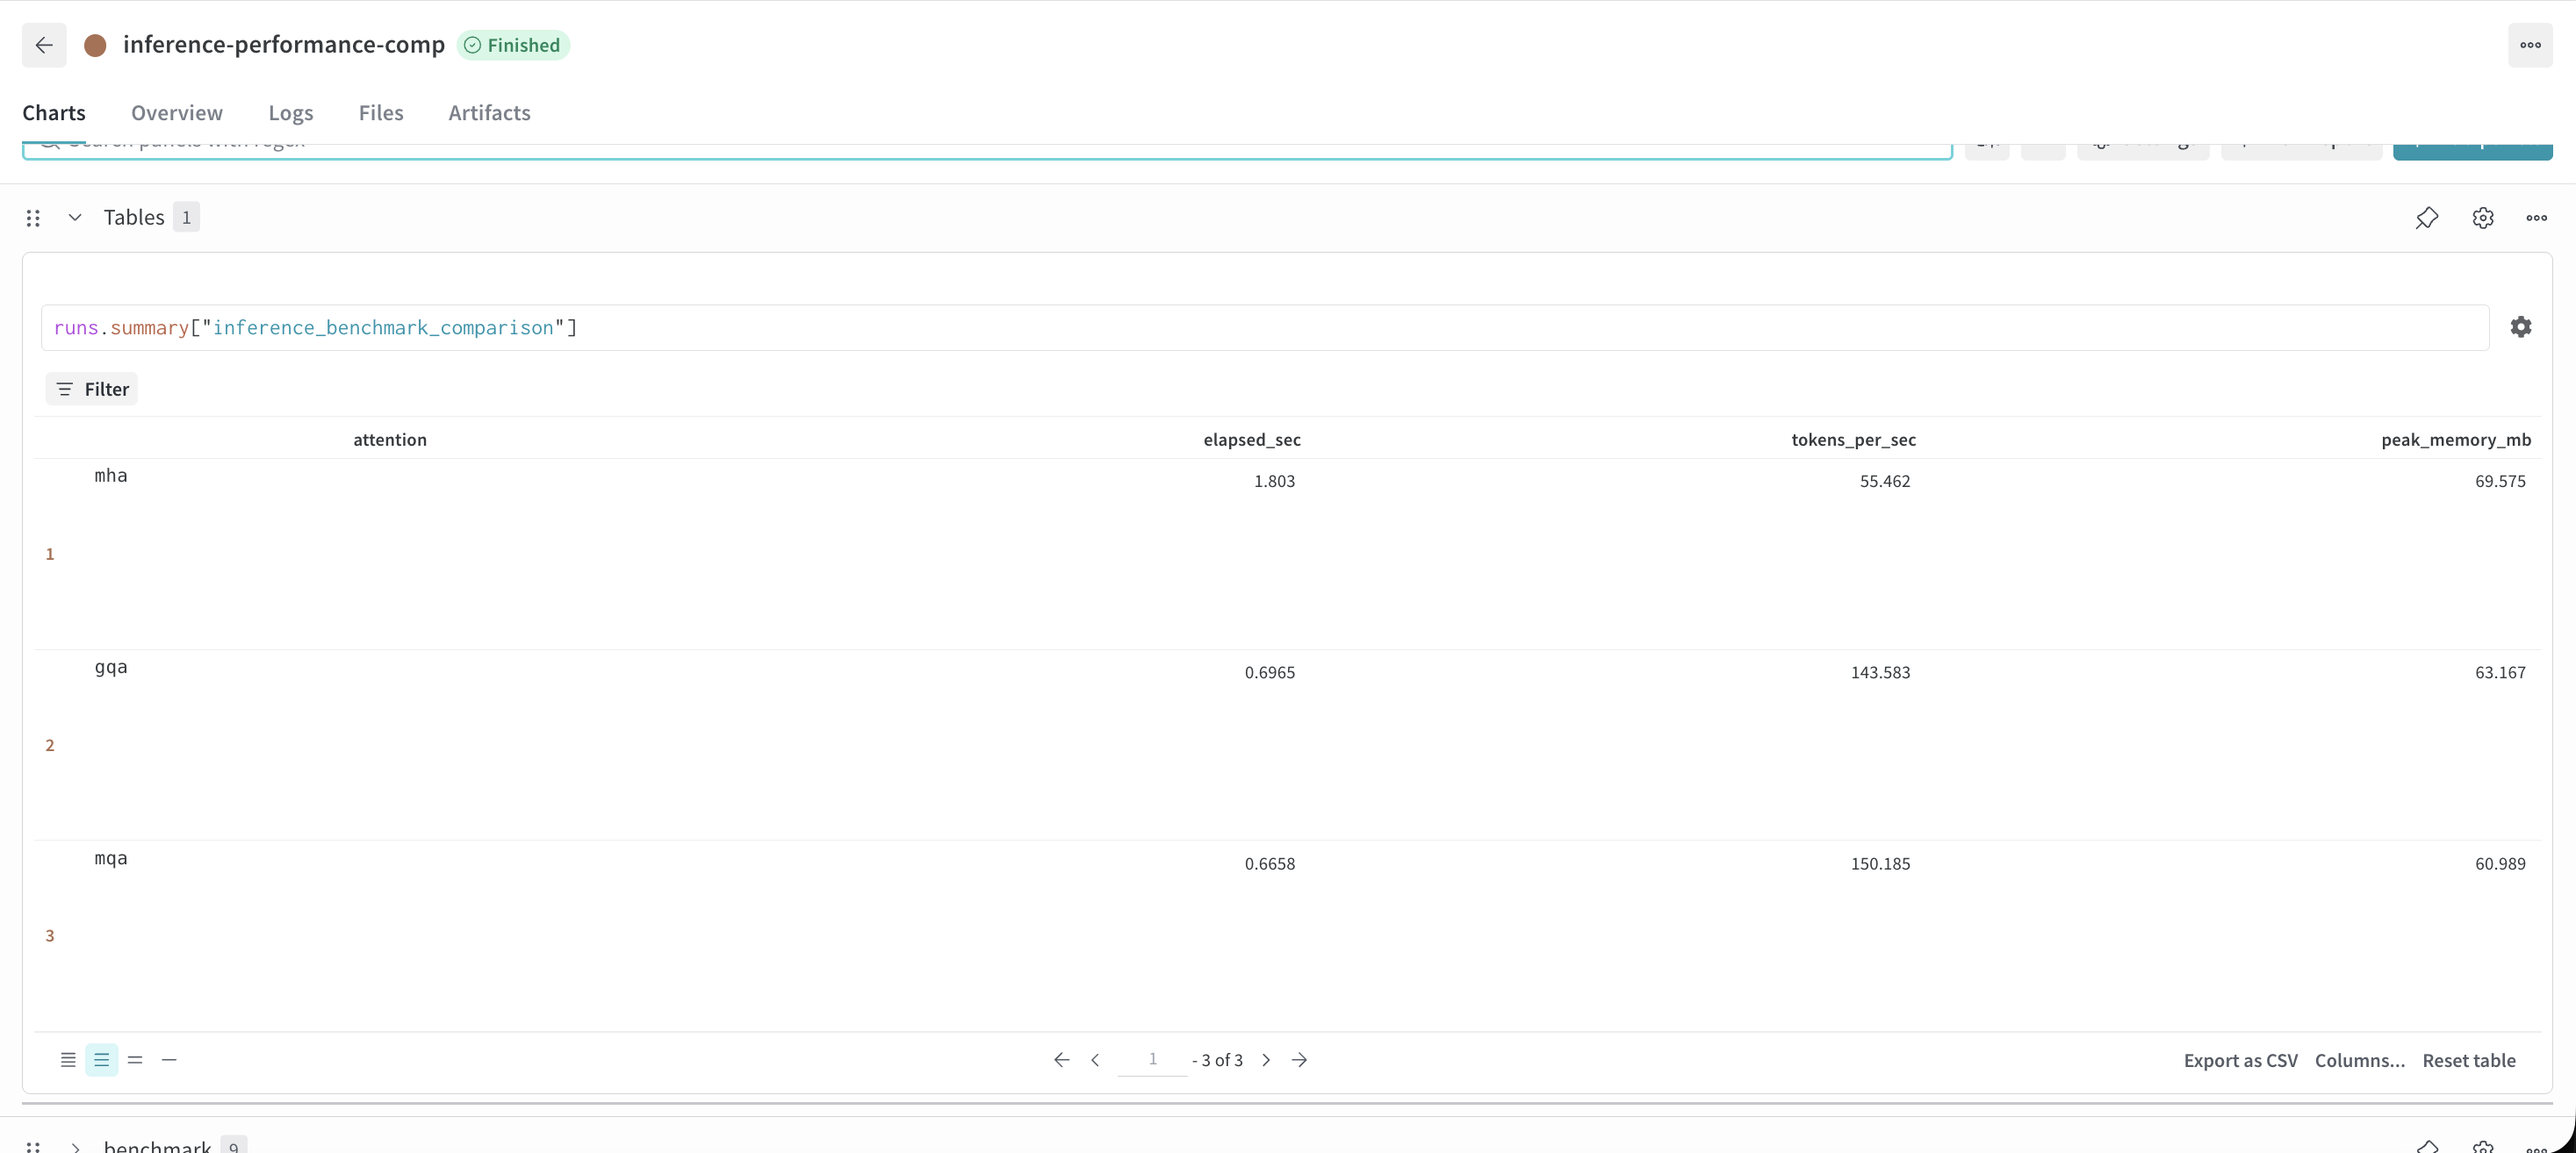
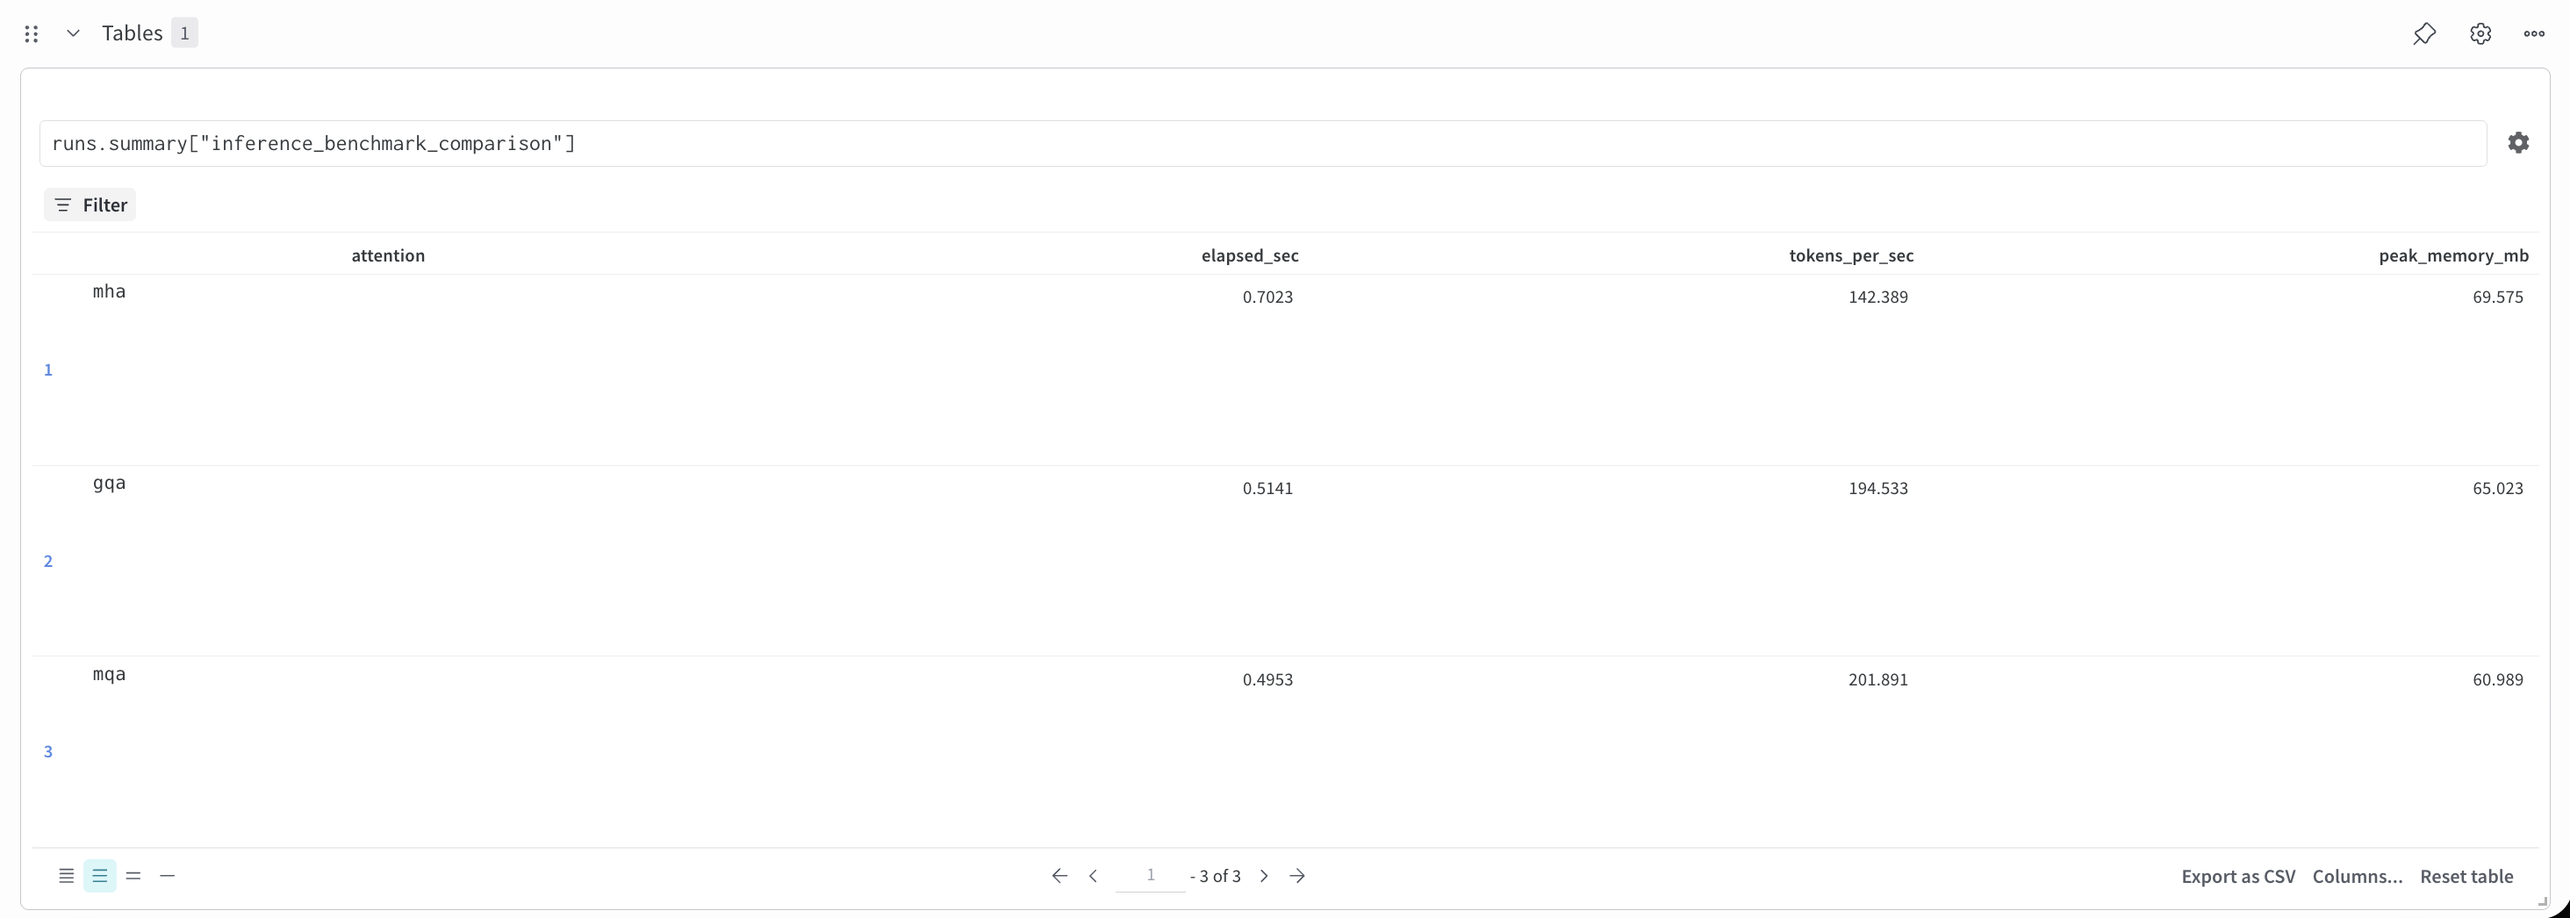
code cleanup / simplification - use bfloat16

diff --git a/modules/training/train_transformer.py b/modules/training/train_transformer.py
@@ -7,15 +7,12 @@ import wandb
 
 class TransformerTrainer:
     def __init__(self, vocab_size, embed_dim, num_heads, num_layers, attention_module, mlp_ratio=4, device='cpu'):
-        print(f"Initializing TransformerTrainer with vocab_size={vocab_size}, embed_dim={embed_dim}, num_heads={num_heads}, num_layers={num_layers}, attention_module={attention_module.__name__}, mlp_ratio={mlp_ratio}, device={device}")
+        self.device = device
         self.model = GPTClone(vocab_size, embed_dim, num_heads, num_layers, attention_module, mlp_ratio).to(device)
         self.optimizer = self.set_optimizer()
         self.criterion = nn.CrossEntropyLoss()
-        self.device = device
         self.best_val_loss = float('inf')
         self.lr_scheduler = None
-        self._pending_scheduler_state = None
-        self.scaler = torch.amp.GradScaler('cuda')
 
     def set_optimizer(self):
         decay_parameters = []
@@ -39,22 +36,20 @@ class TransformerTrainer:
         self.model.train()
         total_loss = 0
         for i, (input_ids, targets) in enumerate(dataloader):
-            input_ids = input_ids.to(self.device)
-            targets = targets.to(self.device)
+            input_ids = input_ids.to(self.device, non_blocking=True)
+            targets = targets.to(self.device, non_blocking=True)
 
             self.optimizer.zero_grad()
-            with torch.amp.autocast('cuda', dtype=torch.float16):
+            with torch.amp.autocast(device_type=self.device, dtype=torch.bfloat16):
                 outputs, _ = self.model(input_ids)
 
                 loss = self.criterion(outputs.view(-1, outputs.size(-1)), targets.view(-1))
 
-            self.scaler.scale(loss).backward()
+            loss.backward()
             
-            self.scaler.unscale_(self.optimizer)
             torch.nn.utils.clip_grad_norm_(self.model.parameters(), max_norm=config.GRAD_CLIP_MAX_NORM)  # Gradient clipping
 
-            self.scaler.step(self.optimizer)
-            self.scaler.update()
+            self.optimizer.step()
             self.lr_scheduler.step()
             total_loss += loss.item()
             
@@ -83,17 +78,15 @@ class TransformerTrainer:
             milestones=[warmup_steps]
         )
 
-    def train(self, train_dataloader, epochs, save_every, val_dataloader=None, start_epoch=0, checkpoint_dir=config.MHA_CHECKPOINT_DIR):
+    def train(self, train_dataloader, epochs, save_every, val_dataloader=None, checkpoint_dir=None):
+        if checkpoint_dir is None:
+            raise ValueError("checkpoint_dir must be specified")
         os.makedirs(checkpoint_dir, exist_ok=True)
         total_steps = len(train_dataloader) * epochs
 
         self.setup_lr_scheduler(total_steps)
 
-        if self._pending_scheduler_state is not None:
-            self.lr_scheduler.load_state_dict(self._pending_scheduler_state)
-            self._pending_scheduler_state = None
-
-        for epoch in range(start_epoch, epochs):
+        for epoch in range(epochs):
             total_loss = self.train_step(train_dataloader)
 
             if epoch % 10 == 0 or epoch == epochs - 1:
@@ -116,56 +109,39 @@ class TransformerTrainer:
             wandb.log(log_dict)
 
             if (epoch + 1) % save_every == 0:
-                self.save_checkpoint(f"{checkpoint_dir}/epoch_{epoch+1}.pt", epoch, total_loss, best_val_loss=self.best_val_loss)
+                self.save_checkpoint(f"{checkpoint_dir}/epoch_{epoch+1}.pt", epoch, total_loss)
 
             if val_loss is not None and val_loss < self.best_val_loss:
                 self.best_val_loss = val_loss
-                self.save_checkpoint(f"{checkpoint_dir}/best.pt", epoch, total_loss, best_val_loss=val_loss)
+                self.save_checkpoint(f"{checkpoint_dir}/best.pt", epoch, total_loss)
 
     def validate(self, dataloader):
         self.model.eval()
         total_loss = 0
         with torch.no_grad():
             for input_ids, targets in dataloader:
-                input_ids = input_ids.to(self.device)
-                targets = targets.to(self.device)
-                with torch.amp.autocast('cuda', dtype=torch.float16):
+                input_ids = input_ids.to(self.device, non_blocking=True)
+                targets = targets.to(self.device, non_blocking=True)
+                with torch.amp.autocast(device_type=self.device, dtype=torch.bfloat16):
                     outputs, _ = self.model(input_ids)
                     loss = self.criterion(outputs.view(-1, outputs.size(-1)), targets.view(-1)) # crossentropy takes batch_size x seq_len as input
                 total_loss += loss.item()
 
         return total_loss / len(dataloader)
     
-    def save_checkpoint(self, path, epoch, loss, best_val_loss=None):
+    def save_checkpoint(self, path, epoch, loss):
         torch.save({
             'epoch': epoch,
             'model_state_dict': self.model.state_dict(),
-            'optimizer_state_dict': self.optimizer.state_dict(),
-            'lr_scheduler_state_dict': self.lr_scheduler.state_dict() if self.lr_scheduler else None,
             'train_loss': loss,
-            'best_val_loss': best_val_loss,
-            'wandb_run_id': wandb.run.id if wandb.run is not None else None,
-            'scaler_state_dict': self.scaler.state_dict(),
         }, path)
         print(f"Checkpoint saved to {path}")
 
     def load_checkpoint(self, path):
         checkpoint = torch.load(path, map_location=self.device)
         self.model.load_state_dict(checkpoint['model_state_dict'])
-        self.optimizer.load_state_dict(checkpoint['optimizer_state_dict'])
-        self.scaler.load_state_dict(checkpoint['scaler_state_dict'])
         print(f"Checkpoint loaded from {path}")
         return (
             checkpoint['epoch'],
             checkpoint['train_loss'],
-            checkpoint.get('best_val_loss', None),
-            checkpoint.get('lr_scheduler_state_dict', None),
-            checkpoint.get('wandb_run_id', None),
         )
-
-    def resume_from_checkpoint(self, path):
-        epoch, train_loss, best_val_loss, lr_scheduler_state_dict, wandb_run_id = self.load_checkpoint(path)
-        if best_val_loss is not None:
-            self.best_val_loss = best_val_loss
-        self._pending_scheduler_state = lr_scheduler_state_dict
-        return epoch, train_loss, wandb_run_id

diff --git a/modules/training/training.py b/modules/training/training.py
@@ -26,19 +26,17 @@ def parse_args():
         type=str,
         choices=ATTENTION_MODULES.keys(),
         default="mha",
-        help="Which attention module to use: mha or mqa",
-    )
-    parser.add_argument(
-        "--resume",
-        type=str,
-        default=None,
-        help="Path to a checkpoint file to resume training from",
+        help="Which attention module to use: mha, gqa or mqa",
     )
     return parser.parse_args()
 
 
 if __name__ == "__main__":
     args = parse_args()
+    torch.manual_seed(config.SEED)
+
+    if torch.cuda.is_available():
+        torch.cuda.manual_seed_all(config.SEED)
 
     prepare_data()
 
@@ -46,34 +44,14 @@ if __name__ == "__main__":
     mlp_ratio = config.MLP_RATIO
     device = "cuda" if torch.cuda.is_available() else "cpu"
 
-    trainer = TransformerTrainer(
-        config.VOCAB_SIZE,
-        config.EMBED_DIM,
-        config.NUM_HEADS,
-        config.NUM_LAYERS,
-        attention_module,
-        mlp_ratio,
-        device,
-    )
-    print(f"TransformerTrainer initialized with {args.attention} attention on {device}.")
-
     train_dataset = TokenDataset(config.TRAIN_DATA_PATH, config.SEQ_LEN)
     train_dataloader = DataLoader(train_dataset, batch_size=config.BATCH_SIZE, shuffle=True, num_workers=4, pin_memory=True, persistent_workers=True)
 
     val_dataset = TokenDataset(config.VAL_DATA_PATH, config.SEQ_LEN)
     val_dataloader = DataLoader(val_dataset, batch_size=config.BATCH_SIZE, shuffle=False, num_workers=2, pin_memory=True, persistent_workers=True)
 
-    start_epoch = 0
-    wandb_run_id = None
-    if args.resume is not None:
-        start_epoch, last_train_loss, wandb_run_id = trainer.resume_from_checkpoint(args.resume)
-        start_epoch += 1
-        print(f"Resumed from {args.resume}, continuing at epoch {start_epoch+1}, last train loss was {last_train_loss:.4f}")
-
     wandb.init(
         project="gpt-clone-experiments",
-        id=wandb_run_id,
-        resume="must" if wandb_run_id is not None else None,
         config={
             "attention": args.attention,
             "vocab_size": config.VOCAB_SIZE,
@@ -89,10 +67,21 @@ if __name__ == "__main__":
         },
     )
 
+    trainer = TransformerTrainer(
+        config.VOCAB_SIZE,
+        config.EMBED_DIM,
+        config.NUM_HEADS,
+        config.NUM_LAYERS,
+        attention_module,
+        mlp_ratio,
+        device,
+    )
+    print(f"TransformerTrainer initialized with {args.attention} attention on {device}.")
+
     CHECKPOINT_DIRS = {
-    "mha": config.MHA_CHECKPOINT_DIR,
-    "mqa": config.MQA_CHECKPOINT_DIR,
-    "gqa": config.GQA_CHECKPOINT_DIR,
+        "mha": config.MHA_CHECKPOINT_DIR,
+        "mqa": config.MQA_CHECKPOINT_DIR,
+        "gqa": config.GQA_CHECKPOINT_DIR,
     }
 
     trainer.train(
@@ -100,6 +89,5 @@ if __name__ == "__main__":
         epochs=config.NUM_EPOCHS,
         save_every=config.SAVE_EVERY,
         val_dataloader=val_dataloader,
-        start_epoch=start_epoch,
         checkpoint_dir=CHECKPOINT_DIRS[args.attention],
     )

diff --git a/modules/config.py b/modules/config.py
@@ -11,7 +11,7 @@ EMBED_DIM = 384
 NUM_HEADS = 6
 NUM_LAYERS = 6
 MLP_RATIO = 4
-NUM_KV_HEADS = 2
+NUM_KV_HEADS = 3
 
 SEQ_LEN = 256
 BATCH_SIZE = 64
@@ -23,3 +23,5 @@ GRAD_CLIP_MAX_NORM = 1.0
 
 NUM_EPOCHS = 20
 SAVE_EVERY = 3
+
+SEED = 42

diff --git a/readme.md b/readme.md
@@ -12,7 +12,7 @@ Trained on WikiText-103, tokenized with a custom BPE tokenizer (8000 vocab).
 - Trained on GPU Cluster, single NVIDIA A40
 - 20 epochs, AdamW with weight decay (excluding biases/norms), warmup +
   cosine LR schedule, gradient clipping
-- GQA uses `num_kv_heads=2` (3 query heads share each KV pair)
+- GQA uses `num_kv_heads=3` (2 query heads share each KV pair) tuned hyperparameter; 
 - MQA uses a single shared KV pair across all heads
 
 ## Results
@@ -22,7 +22,7 @@ Trained on WikiText-103, tokenized with a custom BPE tokenizer (8000 vocab).
 | Attention | Train loss | Val loss |
 |---|---|---|
 | MHA | ~2.30 | ~2.35 |
-| GQA | ~2.32 | ~2.39 |
+| GQA | ~2.31 | ~2.38 |
 | MQA | ~2.33 | ~2.40 |
 
 ### Test set (held-out, unbiased)
@@ -30,16 +30,20 @@ Trained on WikiText-103, tokenized with a custom BPE tokenizer (8000 vocab).
 | Attention | Test loss |
 |---|---|
 | MHA | 2.376 |
-| GQA | 2.394 |
+| GQA | 2.390 |
 | MQA | 2.409 |
 
 ### Inference benchmark (100 tokens, batch size 1, A40)
 
+![Inference speed and memory comparison](./docs/images/perf_comparison.png)
+
 | Attention | Tokens/sec | Peak memory (MB) |
 |---|---|---|
-| MHA | 55.5 | 69.6 |
-| GQA | 143.6 | 63.2 |
-| MQA | 150.2 | 61.0 |
+| MHA | 142.389 | 69.575 |
+| GQA | 194.533 | 65.023 |
+| MQA | 201.891 | 60.989 |
+
+Full training curves and test-set evaluation plots: [docs/results.md](./docs/results.md)
 
 ## Takeaway
 

diff --git a/docs/results.md b/docs/results.md
@@ -9,7 +9,7 @@ trained from scratch on WikiText-103.
 ![MHA training](./images/mha.png)
 
 ### GQA
-![GQA training](./images/gqa.png)
+![GQA training](./images/gqa-head3.png)
 
 ### MQA
 ![MQA training](./images/mqa.png)
@@ -24,7 +24,7 @@ test set.
 | Attention | Test loss |
 |---|---|
 | MHA | 2.376 |
-| GQA | 2.394 |
+| GQA | 2.390 |
 | MQA | 2.409 |
 
 ## Inference benchmark
@@ -35,9 +35,9 @@ test set.
 
 | Attention | Tokens/sec | Peak memory (MB) |
 |---|---|---|
-| MHA | 55.5 | 69.6 |
-| GQA | 143.6 | 63.2 |
-| MQA | 150.2 | 61.0 |
+| MHA | 142.389 | 69.575 |
+| GQA | 194.533 | 65.023 |
+| MQA | 201.891 | 60.989 |
 
 ## Takeaway
 
